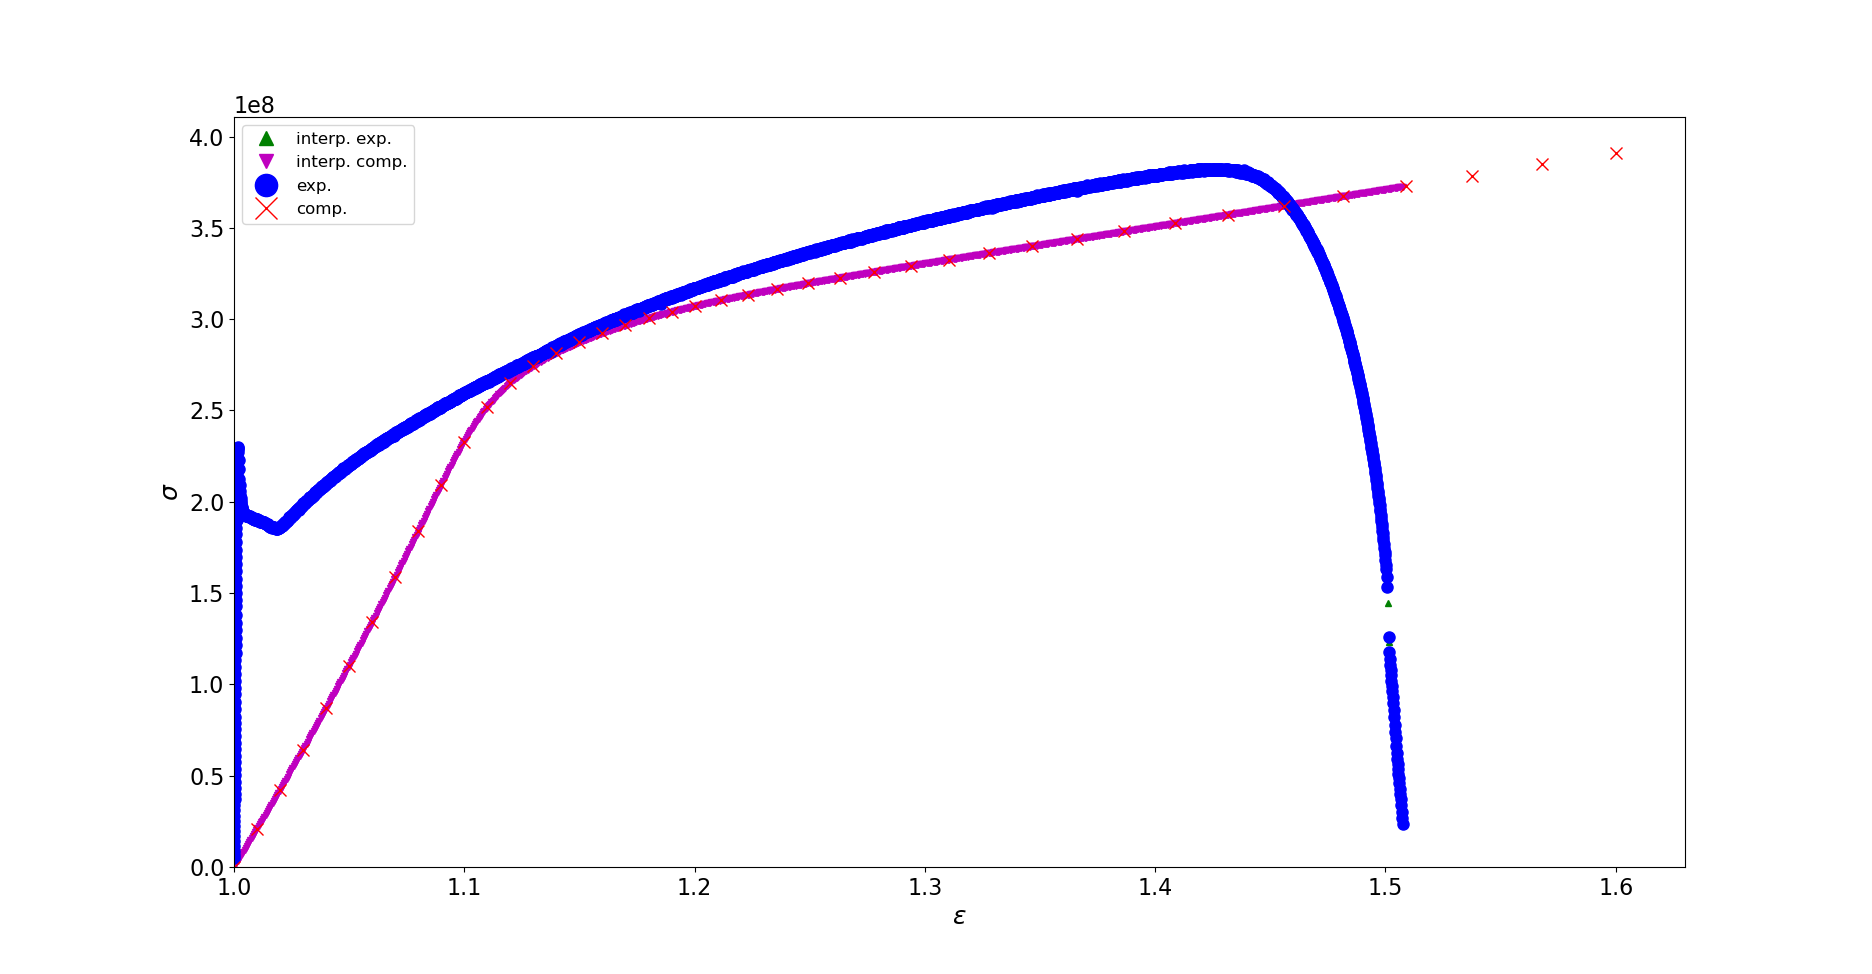
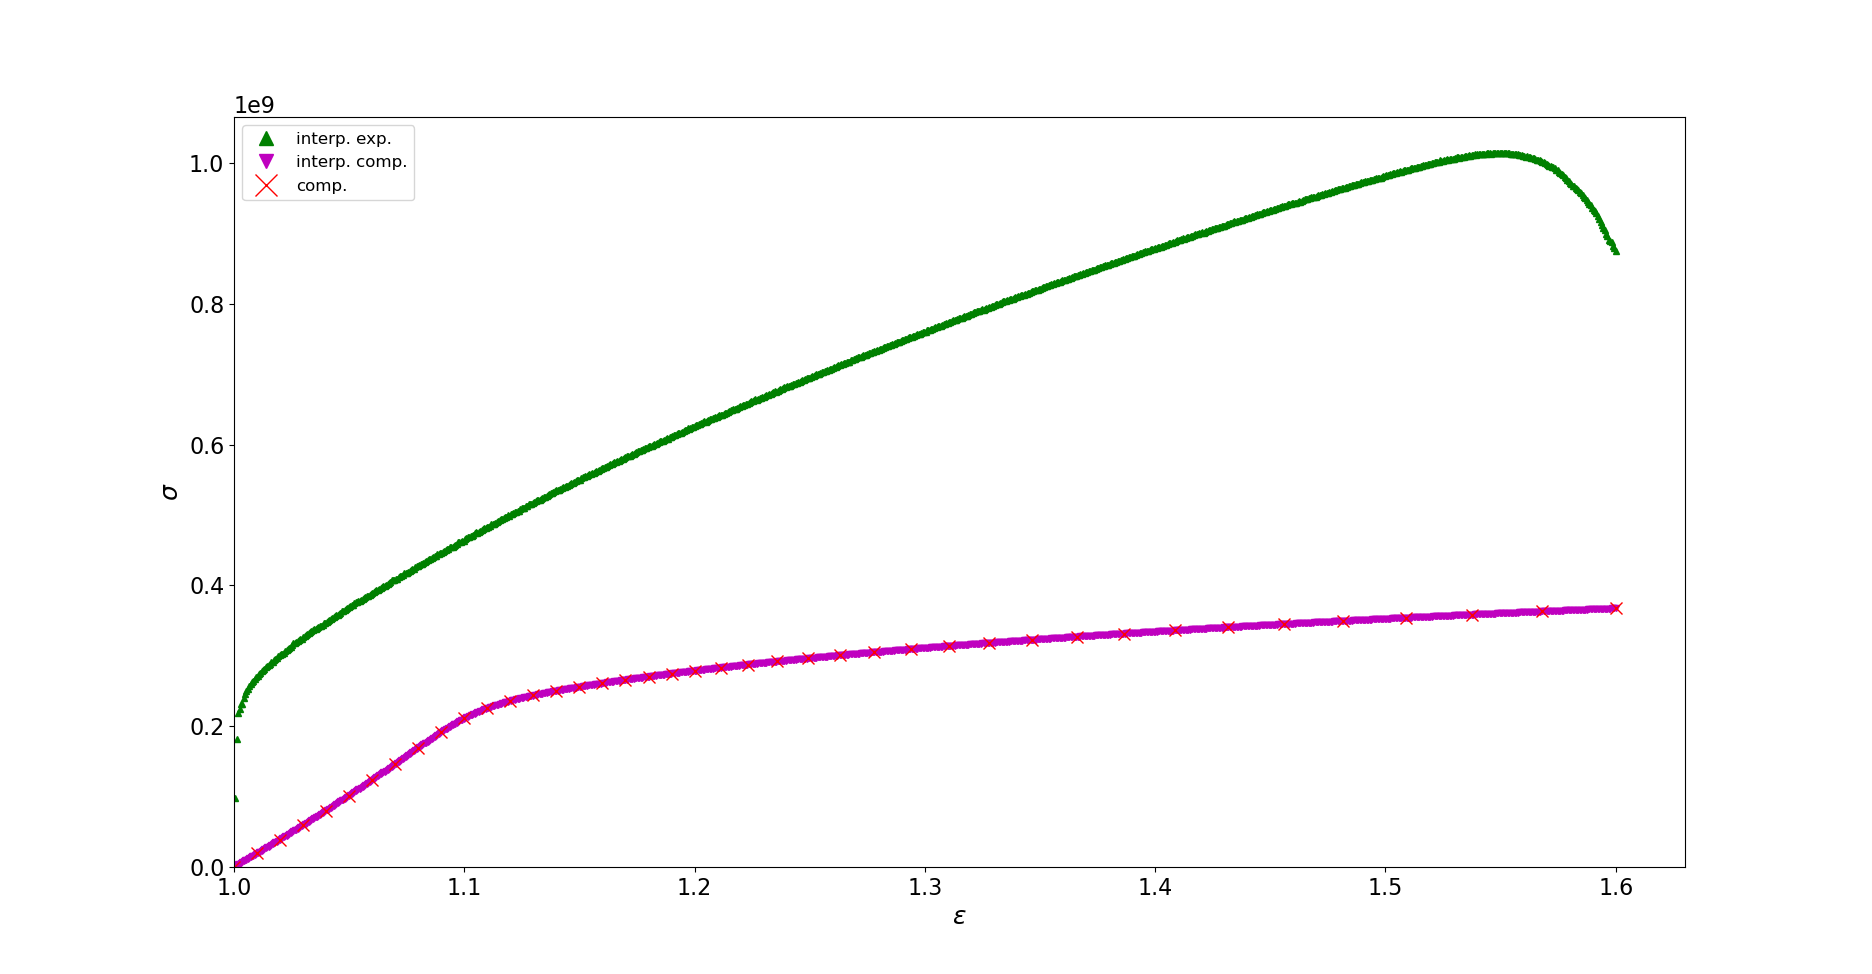
update model_calib.png

diff --git a/test_model-calibration_Solo/mainprog_benchR_gpml.m b/test_model-calibration_Solo/mainprog_benchR_gpml.m
@@ -1,5 +1,5 @@
 
-% ------------------------------------------------------------ construct response GPR(s) ------------------------------------------------------------
+% --------------------------------------- construct response GPR(s) ---------------------------------------
 close all;
 clear all;
 home;
@@ -43,7 +43,7 @@ pkg load statistics;
 %
 % 	deprecated: 4. d -- dimensionality
 
-% ------------------------------------------------------------ INSTRUCTION ------------------------------------------------------------
+% --------------------------------------- INSTRUCTION ---------------------------------------
 % procedure to set up a GP-Hedge constrained asynchronously parallel BO applications
 % Step 1: set up a post-processing script that return all the outputs
 %			output.dat 
@@ -62,15 +62,15 @@ pkg load statistics;
 % Step 5: post-process: use buildLogs.sh to build globale {input,output,feasible,complete,batchID}.dat for post-processing analysis
 %
 
-% ------------------------------------------------------------ input parameters ------------------------------------------------------------
+% --------------------------------------- input parameters ---------------------------------------
 
 %% simulation settings
-modelName = 'hart6'; % declare model name -- must match with "_Template/"
+modelName = 'rosen'; % declare model name -- must match with "_Template/"
 queryShellScript = 'queryR.sh'; % query Shell script -- end-to-end, from input.dat to {output,feasible,complete,batchID,rewards}.dat
 
 %% define lower and upper bounds for the control variables
-xLB = zeros(1, 6);
-xUB = ones(1, 6);
+xLB = -0 * ones(1, 20);
+xUB = +2 * ones(1, 20);
 
 % add rough scale of inputs and outputs so that it can be centered around 1e0
 xScale = 1e0 * ones(1,length(xLB));
@@ -90,9 +90,9 @@ d = length(xLB); % dimensionality of the problem
 % upbClf = 2e+1 * ones(1, d);
 
 %% batch-size setting
-exploitSize = 6;        % exploitation by hallucination in batch
-exploreSize = 4;        % exploration by sampling at maximal mse
-exploreClfSize = 0; % exploration by sampling at maximal for classif-GPR
+exploitSize = 3;        % exploitation by hallucination in batch
+exploreSize = 2;        % exploration by sampling at maximal mse
+exploreClfSize = 1; % exploration by sampling at maximal for classif-GPR
 batchSize = exploitSize + exploreSize + exploreClfSize; % total number of concurrent simulations
 
 %% optimization settings
@@ -133,7 +133,7 @@ fprintf('Initialization completed Bayesian-optimization on %s\n', modelName);
 xLB = xLB ./ xScale; % rescale
 xUB = xUB ./ xScale; % rescale
 
-% ------------------------------------------------------------ initial sampling ------------------------------------------------------------ %
+% --------------------------------------- initial sampling --------------------------------------- %
 
 % rng(0);
 % Sinit = [];
@@ -154,7 +154,7 @@ xUB = xUB ./ xScale; % rescale
 % end
 % pause(300);
 
-% ------------------------------------------------------------ read sampling ------------------------------------------------------------ %
+% --------------------------------------- read sampling --------------------------------------- %
 S = []; Y = []; F = []; C = []; B = [];
 
 cd(parentPath);
@@ -257,7 +257,7 @@ fprintf('Done fitting gpml...\n\n\n');
 for i = 1:d; S(:,i) = S(:,i) / xScale(i); end; Y = Y / yScale;
 
 
-% ------------------------------------------------------------ parallel optimization loop ------------------------------------------------------------ %
+% --------------------------------------- parallel optimization loop --------------------------------------- %
 
 
 for i = (numParallelPoint + 1):maxiter

diff --git a/test_model-calibration_Solo/mlmc_SS304L_Template/computeLossFunction.py b/test_model-calibration_Solo/mlmc_SS304L_Template/computeLossFunction.py
@@ -60,10 +60,10 @@ comp_sigma  = np.array(comp_sigma)[uniq_idx]
 interp_vareps = np.linspace(1, np.min([np.max(comp_vareps), np.max(exp_vareps)]), 1000)
 from scipy.interpolate import interp1d
 # get interpolated exp. stress
-interpSpline_exp = interp1d(exp_vareps, exp_sigma, kind='cubic', fill_value='extrapolate')
+interpSpline_exp = interp1d(exp_vareps, exp_sigma, kind='linear', fill_value='extrapolate')
 interp_exp_sigma = interpSpline_exp(interp_vareps)
 # get interpolated comp. stress
-interpSpline_comp = interp1d(comp_vareps, comp_sigma, kind='cubic', fill_value='extrapolate')
+interpSpline_comp = interp1d(comp_vareps, comp_sigma, kind='linear', fill_value='extrapolate')
 interp_comp_sigma = interpSpline_comp(interp_vareps)
 
 import scipy.linalg as sla
@@ -76,7 +76,7 @@ print(loss_sla)
 plt.figure()
 plt.plot(interp_vareps, interp_exp_sigma, 'g^', ms=5, label='interp. exp.')
 plt.plot(interp_vareps, interp_comp_sigma, 'mv', ms=5, label='interp. comp.')
-plt.plot(exp_vareps, exp_sigma, 'bo', ms=8, label='exp.')
+# plt.plot(exp_vareps, exp_sigma, 'bo', ms=8, label='exp.')
 plt.plot(comp_vareps, comp_sigma, 'rx', ms=8, label='comp.')
 plt.legend(fontsize=12, markerscale=2)
 plt.xlabel(r'$\varepsilon$', fontsize=18)
